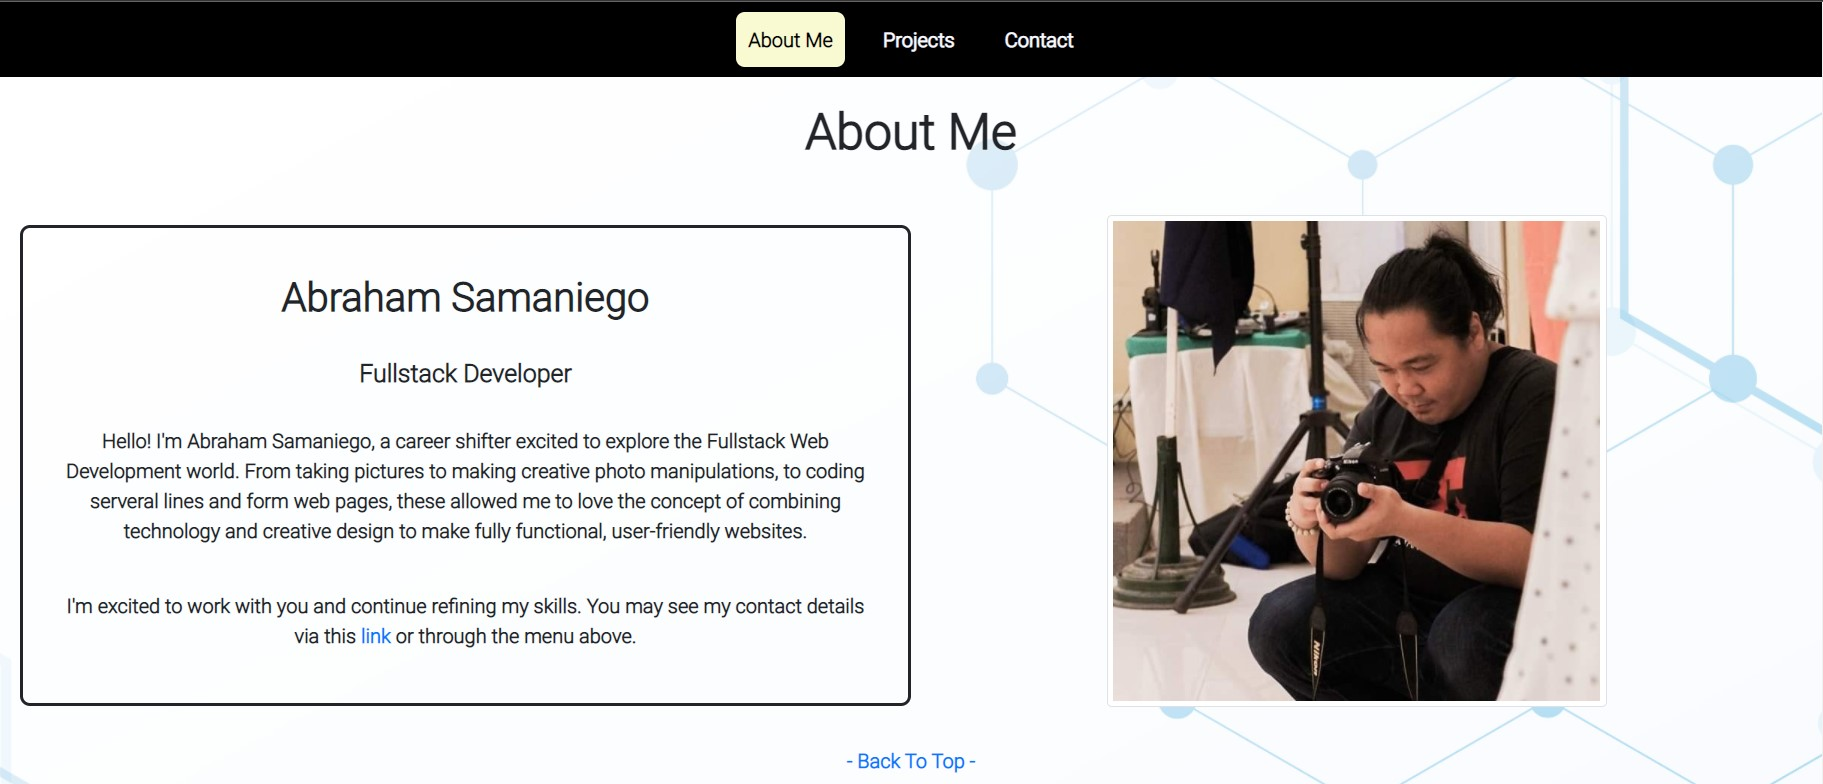
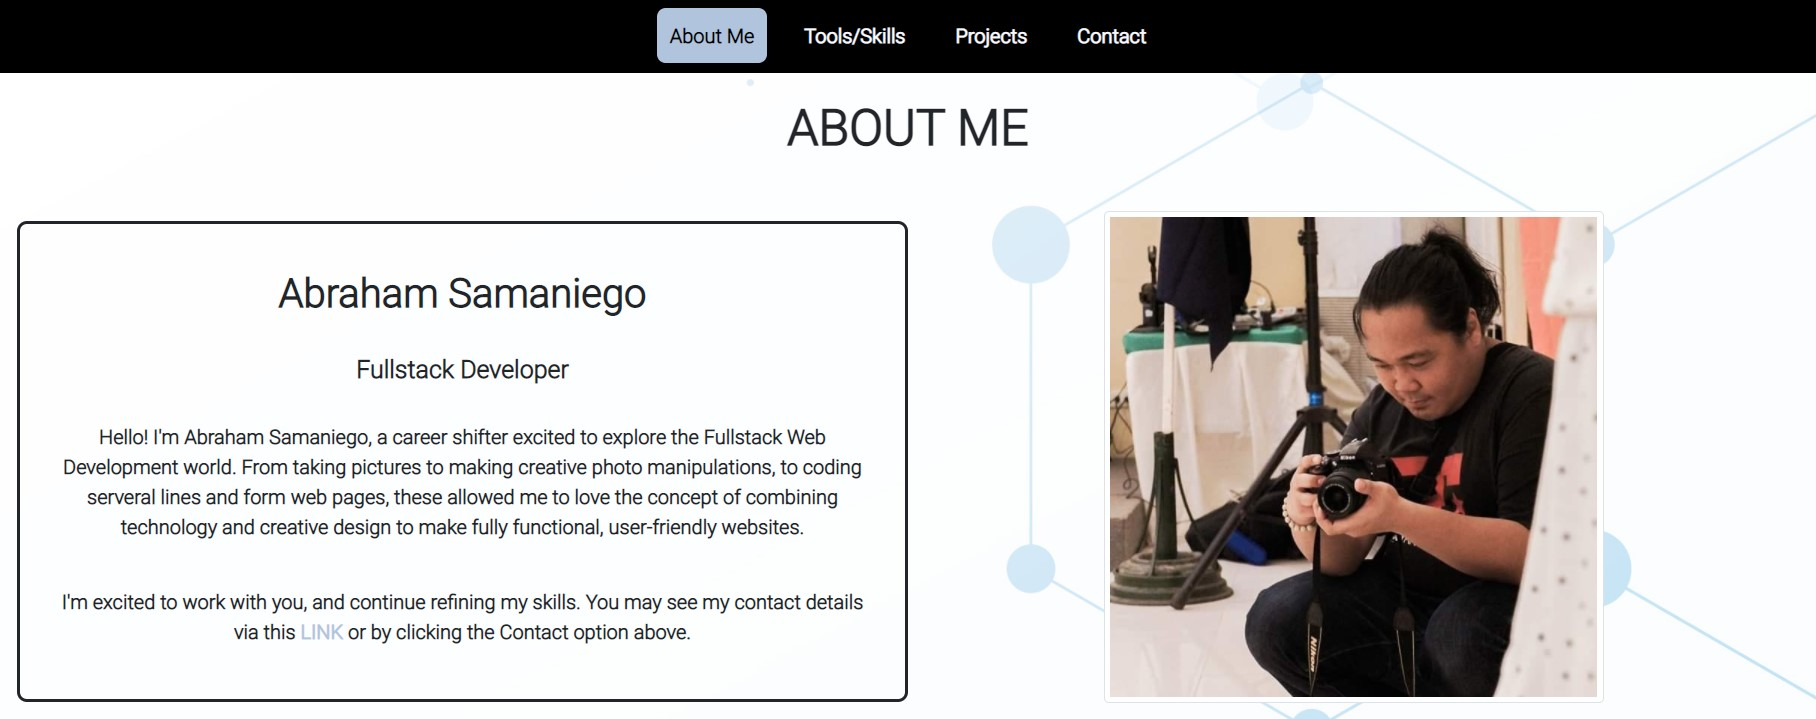
Updated Codes

diff --git a/index.html b/index.html
@@ -37,6 +37,8 @@
 
 				<a id="navLink" class="nav-link" href="#top">About Me <span class="sr-only">(current)</span></a>
 
+				<a id="navLink" class="nav-link" href="#tools">Tools/Skills</a>
+
 				<a id="navLink" class="nav-link" href="#projects">Projects</a>
 
 				<a id="navLink" class="nav-link" href="#contact">Contact</a>
@@ -51,7 +53,7 @@
 
 	<div id="about" class="container-fluid">
 
-		<h1 id="header1">About Me</h1>
+		<h1 id="header1">ABOUT ME</h1>
 
 		<div class="row p-3">
 
@@ -65,7 +67,7 @@
 			</p>
 
 			<p id="para1">
-				I'm excited to work with you and continue refining my skills. You may see my contact details via this <a id="thislink" href="#contact">link</a> or through the menu above.
+				I'm excited to work with you, and continue refining my skills. You may see my contact details via this <a id="thislink" href="#contact">LINK</a> or by clicking the Contact option above.
 			</p>
 
 			</div>
@@ -76,24 +78,79 @@
 
 		</div>
 
-		<a id="thislink" href="#top">- Back To Top -</a>
+		<a id="thislink" href="#top">- BACK TO TOP -</a>
+		<hr>
+
+
+		<!-- Tools Section Start -->
+        <div id="tools" class="container-fluid">
+
+            <!-- Core Tools Section Start -->
+            <h3 id="header2">CORE TOOLS/SKILLS</h3>
+
+            <div>
+                <div>
+                    <img width="100" src="images/logo-html5.png"/>
+                </div>
+                <div>
+                    <img width="100" src="images/logo-css3.png"/>
+                    <img width="100" src="images/logo-javascript.png"/>
+                </div>
+            </div>
+            <!-- Core Tools Section End -->
+            
+            <!-- Other Tools Section Start -->
+            <h3 id="header2">OTHER TOOLS/SKILLS</h3>
+
+            <div>
+                <div>
+                    <img width="100" src="images/logo-mongodb.png"/>
+                    <img width="100" src="images/logo-nodejs.png"/>
+                    <img width="100" src="images/logo-expressjs.png"/>
+                    <img width="100" src="images/logo-react.png"/>
+                    <img width="100" src="images/logo-heroku.png"/>
+                </div>
+                <div class="mt-3">
+                    <img width="100" src="images/logo-git.png"/>
+                    <img width="100" src="images/logo-sublime-text-3.png"/>
+                    <img width="100" src="images/logo-postman.png"/>
+                    <img width="100" src="images/logo-gitlab-ci-cd.png"/>
+                    <img width="100" src="images/logo-bootstrap.png">
+                </div>
+            </div>
+            <!-- Other Tools Section End -->
+            
+        </div>
+        <!-- Tools Section End -->
+
+		<a id="thislink" href="#top">- BACK TO TOP -</a>
 		<hr>
 
 		<div id="projects" class="container-fluid">
 			
-			<h1 id="header1">Projects</h1>
+			<h1 id="header1">PROJECTS</h1>
 
 	            <div id="containerabout" class="text-dark row">
 	                <div class="pt-3 pb-3 mt-3 mb-3 col-sm-8 col-md-6 order-2 order-md-1">
 
-	                    <h5 id="header2">Static Web Site</h5>
+	                    <h5 id="header2">STATIC WEB SITE</h5>
 
 	                    <p id="para1">
 	                    	This is my first fully functional, static website, also serving as my Capstone project. The page is mobile-friendly and easy to navigate.
 	                    </p>
+
+	                    <p id="para1">
+	                    	Made with the following:
+	                    </p>
+
+	                    <div>
+		                    <img width="100" src="images/logo-html5.png"/>
+		                    <img width="100" src="images/logo-css3.png"/>
+		                    <img width="100" src="images/logo-bootstrap.png"/>
+		                </div>
 	                </div>
 
-	                <div class="pt-3 pb-3 col-sm-4 col-md-6 order-1 order-md-2">
+	                <div class="pt-3 pb-3 col-sm-4 mt-auto mb-auto col-md-6 order-1 order-md-2">
 	                    <img id="portfolio1" src="./images/portfolio1.jpg" class="img-fluid">
 	                </div>
 
@@ -102,10 +159,10 @@
 	            <div id="containerabout" class="pt-2 pb-2 mt-2 mb-2 text-dark row">
 	                <div class="pt-3 pb-3 col-sm-4 mt-auto mb-auto col-md-6 order-2 order-md-2 order-sm-1">
 
-	                    <h5 id="header2">Back-End Project</h5>
+	                    <h5 id="header2">BACK-END PROJECT</h5>
 
 	                    <p id="para1">
-	                    	Coming Soon!
+	                    	COMING SOON!
 	                    </p>
 	                </div>
 
@@ -117,10 +174,10 @@
 				<div id="containerabout" class="text-dark row">
 	                <div class="pt-3 pb-3 mt-auto mb-auto col-sm-8 col-md-6 order-2 order-md-1">
 
-	                    <h5 id="header2">Fullstack Project</h5>
+	                    <h5 id="header2">FULLSTACK PROJECT</h5>
 
 	                    <p id="para1">
-	                    	Coming Soon!
+	                    	COMING SOON!
 	                    </p>
 	                </div>
 
@@ -135,12 +192,34 @@
 		</div>
 
 		<!-- End Content -->
-		<a id="thislink" href="#top">- Back To Top -</a>
+		<a id="thislink" href="#top">- BACK TO TOP -</a>
 		<hr>
 
 		<!-- Start Contact -->
 		<div id="contact" class="container-fluid">
 
+			<h1 id="header1">CONTACT ME</h1>
+
+			<form action="https://google.com">
+				<label for="firstname">First Name:</label>
+					<br>
+					<input type="text" name="firstname" required autocomplete placeholder="Input First name here.">
+					<br>
+
+				<label for="email">Email:</label>
+					<br>
+					<input type="text" name="email" required autocomplete placeholder="Input your email address here.">
+					<br>
+					
+				<label>Message: </label>
+					<br>
+				<textarea>
+				</textarea>
+					<br>
+				<button type="submit">Send Inquiry</button>
+				<br>
+				<button type="reset">Reset</button>
+			</form>
 
 		</div>
 		<!-- End Contact -->

diff --git a/index.css b/index.css
@@ -9,7 +9,6 @@ body {
 }
 
 .bg {
-
 	background-image: url("./images/vector.jpg");
 	height: 80%;
 	background-position: center;
@@ -30,7 +29,7 @@ body {
 
 #navLink:hover {
 	color: black;
-	background-color: lightgoldenrodyellow;
+	background-color: lightsteelblue;
     font-weight: bold;
     border-radius: 7px;
     transition: 0.8s;
@@ -64,8 +63,18 @@ body {
 }
 
 #thislink {
+	color: lightsteelblue;
 	font-weight: bolder;
 	text-decoration: none;
+}
+
+#thislink:hover {
+	color: ghostwhite;
+	background-color: black;
+	font-weight: bolder;
+	border-radius: 7px;
+	padding: 5px;
+	transition: 0.8s;
 }
 
 #portfolio1 {
